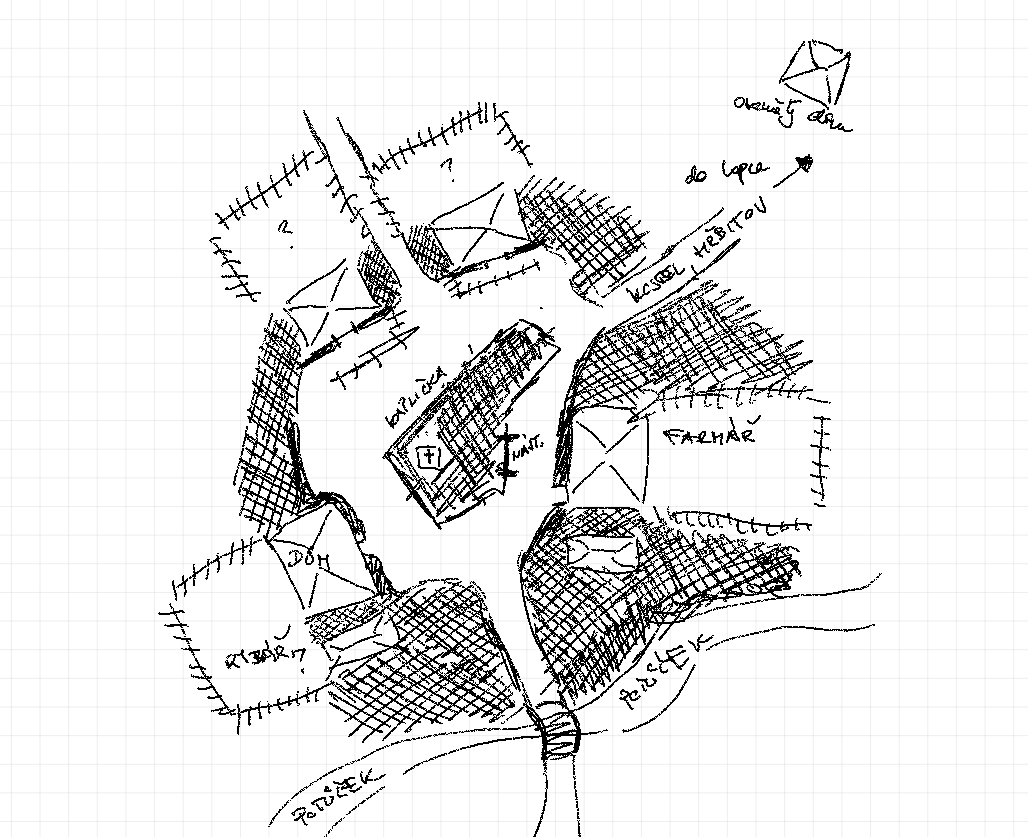
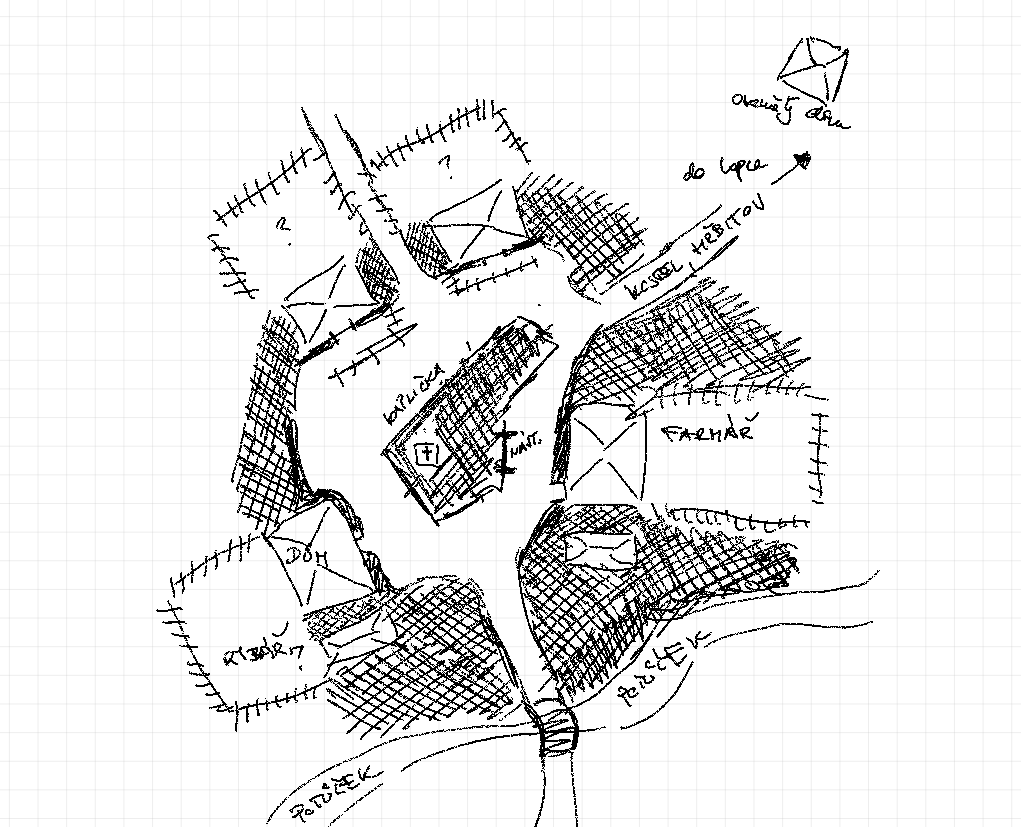
lk

diff --git a/_projects/2024-07-01-Enchanted-village-level-design.md b/_projects/2024-07-01-Enchanted-village-level-design.md
@@ -13,7 +13,7 @@ You completed all the side quests and points of interest (❔ on the map) in the
 
 Experience-wise you are most likely on a **level 4 or 5**. In the Witcher world, it means that you might have gained some experience with fighting packs of wolves or wild dogs, angry bandits, out-of-nowhere spawning drowners, or a group of ghouls scattered over a battlefield. And that's about it.
 
-![](/images/portfolio/sketch.jpg)
+![](/images/portfolio/sketch.png)
 
 
 ### Level design & enemies
